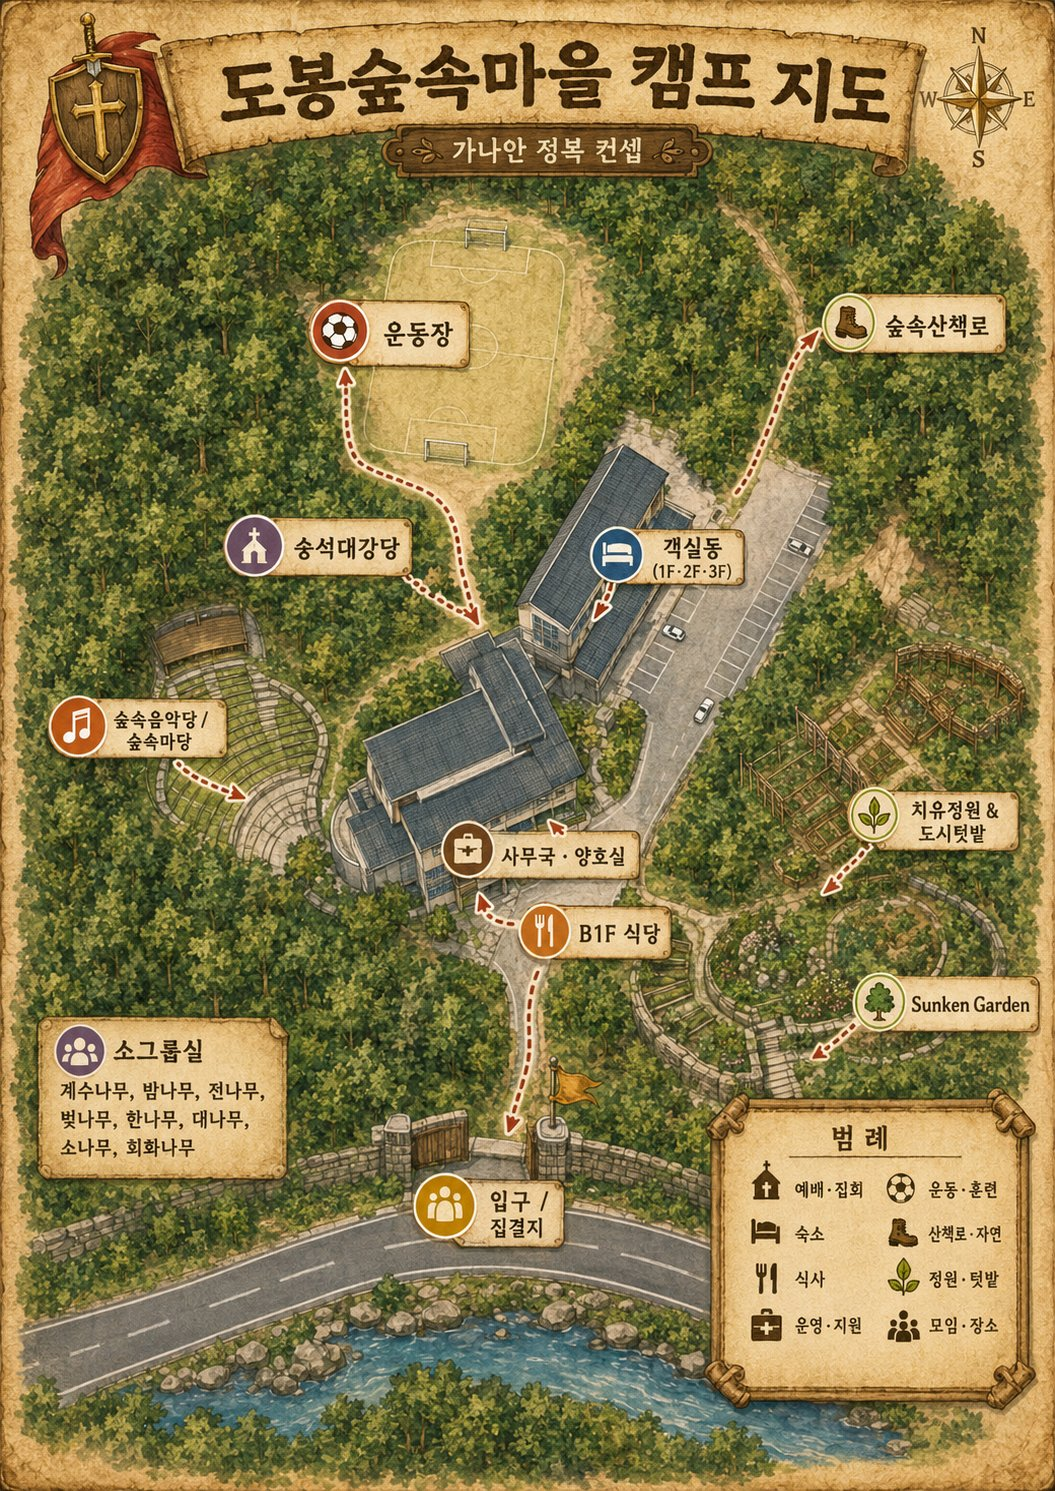
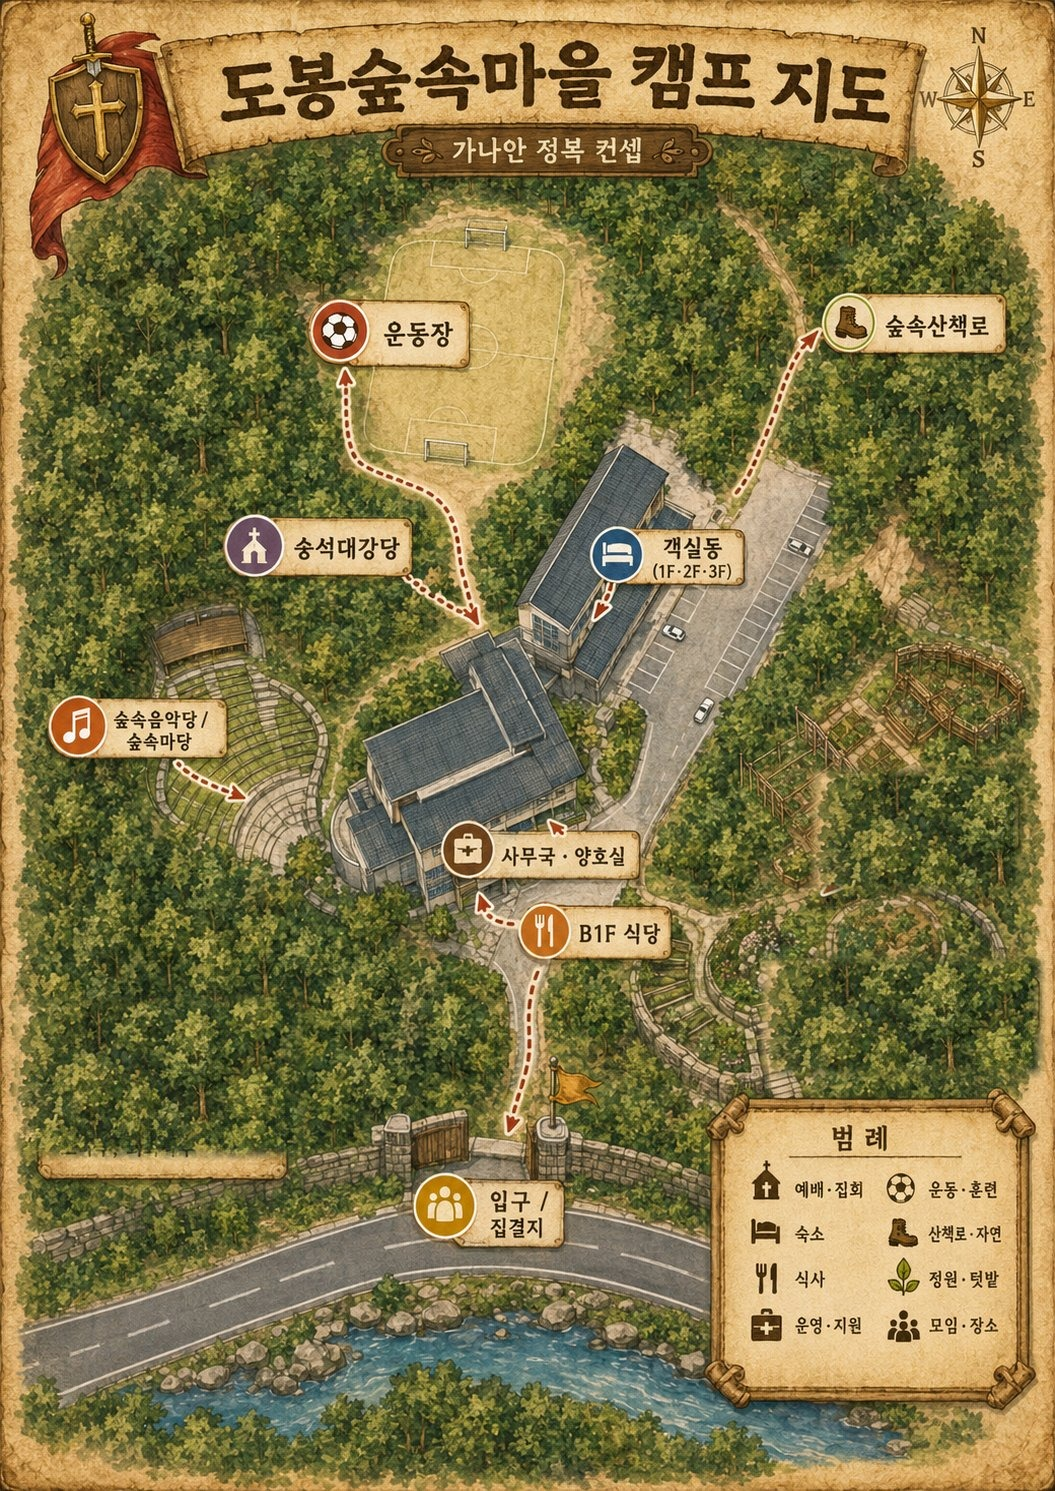
캠프 지도에서 소그룹실·치유정원&도시텃밭·Sunken Garden 표기 제거
세 시설이 더 이상 이용 불가하여 지도 콜아웃과 화살표를 지우고
teacher.html 캡션 텍스트도 함께 정리

Changed region(s): [[0.6976, 0.4936, 1.0, 0.7404], [0.0, 0.6479, 0.3033, 0.8021]]

diff --git a/teacher.html b/teacher.html
@@ -116,7 +116,7 @@ input:focus,textarea:focus,select:focus{outline:none;border-color:var(--blue) !i
     <div class="section-top"><div class="n">02</div><div class="t">🗺 캠프장 지도 (도봉숲속마을)</div></div>
     <div class="section-body">
       <img src="assets/dobong-camp-map.jpg" alt="도봉숲속마을 캠프 지도 — 가나안 정복 컨셉" style="width:100%;border-radius:8px;display:block;">
-      <div style="font-size:11.5px;color:var(--navy);text-align:center;margin-top:10px;line-height:1.6;background:var(--sky);border-radius:8px;padding:9px 12px;">입구/집결지 · 운동장 · 송석대강당 · 객실동 · 숲속산책로 · B1F 식당 · 사무국/양호실 · 소그룹실(계수·밤·전나무 등 8실) · 치유정원/도시텃밭 · 숲속음악당/숲속마당 · Sunken Garden — Day2 관문 배치·집결지 안내 시 참고</div>
+      <div style="font-size:11.5px;color:var(--navy);text-align:center;margin-top:10px;line-height:1.6;background:var(--sky);border-radius:8px;padding:9px 12px;">입구/집결지 · 운동장 · 송석대강당 · 객실동 · 숲속산책로 · B1F 식당 · 사무국/양호실 · 숲속음악당/숲속마당 — Day2 관문 배치·집결지 안내 시 참고</div>
     </div>
   </div>
 